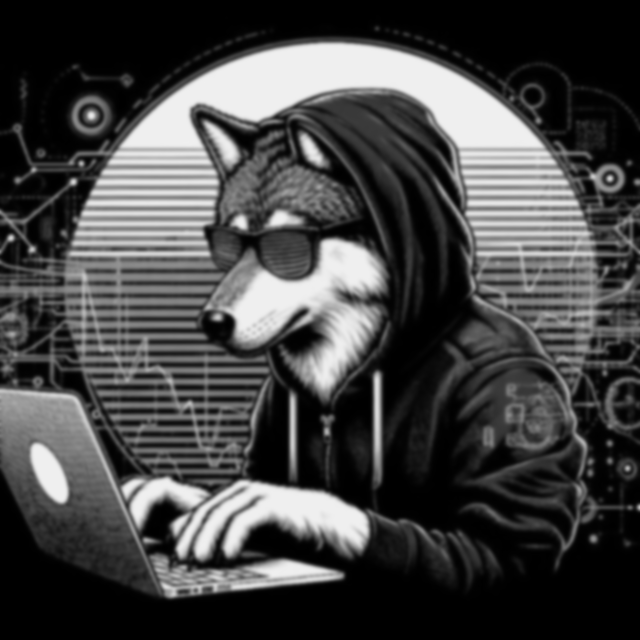
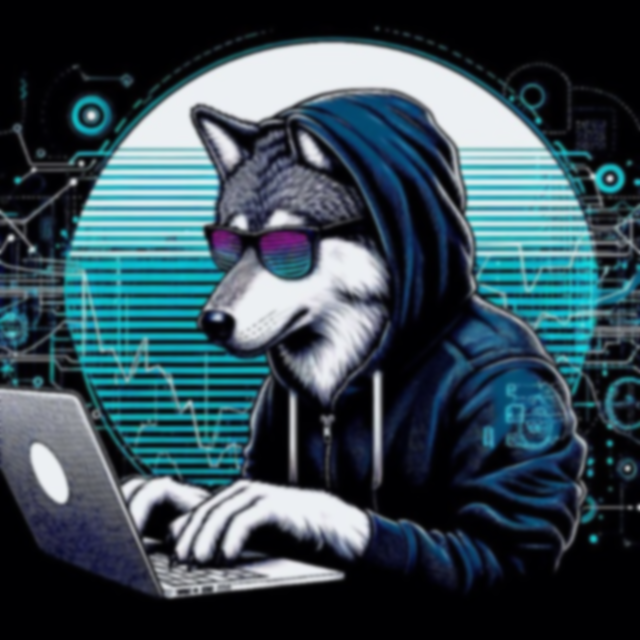
add color image support and remove image_io dependency

diff --git a/Image-debluring/main.py b/Image-debluring/main.py
@@ -1,17 +1,22 @@
+# main.py
 import numpy as np
 import cv2
-from utils.image_io import load_grayscale, show, save_image
 from blur.gaussian import gaussian_kernel
 from deblur.deconvolution import deblur
 from metrices.sharpness import quality
 
 # data path
-input_path = "data/blurred.png"
+input_path = "data/blurred1.png"
 output_path = "data/deblurred_result.png"
 
-# load image in grayscale and calculate the quality
-image = load_grayscale(input_path)
-initial_quality = quality(image)
+# Modified: Load image in color and calculate the quality
+image = cv2.imread(input_path)
+if image is None:
+    raise ValueError(f"Image not found at {input_path}")
+image = image.astype(float)
+
+# Modified: Calculate quality on grayscale version for initial quality
+initial_quality = quality(cv2.cvtColor(np.clip(image, 0, 255).astype(np.uint8), cv2.COLOR_BGR2GRAY))
 
 # initial var
 best_sigma = None
@@ -28,20 +33,45 @@ for sigma in sigmas:
     # Generate Gaussian Kernel (Point Spread Function)
     kernel = gaussian_kernel(sigma)
     
-    # Model: Ax = b (A: Blur Operator, x: Latent Image, b: Observed Blur)
-    # Solving for x: x = A^-1 * b 
-    # In Frequency Domain: x_fft = b_fft / (A_fft + eps)
-    # eps suppresses noise amplification (Regularization).
-    restored = deblur(image, kernel, eps=0.001) 
+    # Modified: Process each channel separately for color image
+    if len(image.shape) == 3:  # Color image (H, W, C)
+        restored_channels = []
+        for c in range(image.shape[2]):
+            channel = image[:, :, c]
+            # Model: Ax = b (A: Blur Operator, x: Latent Image, b: Observed Blur)
+            # Solving for x: x = A^-1 * b 
+            # In Frequency Domain: x_fft = b_fft / (A_fft + eps)
+            # eps suppresses noise amplification (Regularization).
+            restored_channel = deblur(channel, kernel, eps=0.001)
+            restored_channels.append(restored_channel)
+        restored = np.stack(restored_channels, axis=2)
+    else:  # Grayscale image
+        # Model: Ax = b (A: Blur Operator, x: Latent Image, b: Observed Blur)
+        # Solving for x: x = A^-1 * b 
+        # In Frequency Domain: x_fft = b_fft / (A_fft + eps)
+        # eps suppresses noise amplification (Regularization).
+        restored = deblur(image, kernel, eps=0.001)
     
     # Pixel Intensity Constraints: Map restored values back to [0, 255].
     temp_img = np.clip(restored, 0, 255).astype(np.uint8)
     
-    # Edge-Preserving Denoising: Remove "Ringing Artifacts" without blurring edges.
-    temp_img = cv2.medianBlur(temp_img, 3)
+    # Modified: Apply median blur to each channel separately for color
+    if len(temp_img.shape) == 3:
+        # Edge-Preserving Denoising: Remove "Ringing Artifacts" without blurring edges.
+        temp_img_channels = []
+        for c in range(temp_img.shape[2]):
+            temp_img_channels.append(cv2.medianBlur(temp_img[:, :, c], 3))
+        temp_img = np.stack(temp_img_channels, axis=2)
+    else:
+        # Edge-Preserving Denoising: Remove "Ringing Artifacts" without blurring edges.
+        temp_img = cv2.medianBlur(temp_img, 3)
     
-    # calculate quality
-    current_score = quality(temp_img)
+    # Modified: Calculate quality on grayscale version
+    if len(temp_img.shape) == 3:
+        gray_temp = cv2.cvtColor(temp_img, cv2.COLOR_BGR2GRAY)
+    else:
+        gray_temp = temp_img
+    current_score = quality(gray_temp)
     print(f"Sigma: {sigma:.1f} | Score: {current_score:.4f}")
 
     if current_score > best_score:
@@ -51,11 +81,32 @@ for sigma in sigmas:
 
 # final process
 final_image = np.clip(best_image, 0, 255).astype(np.uint8)
-final_image = cv2.normalize(final_image, None, 0, 255, cv2.NORM_MINMAX)
-final_image = cv2.medianBlur(final_image, 3)
+
+# Modified: Normalize each channel separately for color image
+if len(final_image.shape) == 3:
+    final_image_channels = []
+    for c in range(final_image.shape[2]):
+        final_image_channels.append(cv2.normalize(final_image[:, :, c], None, 0, 255, cv2.NORM_MINMAX))
+    final_image = np.stack(final_image_channels, axis=2)
+else:
+    final_image = cv2.normalize(final_image, None, 0, 255, cv2.NORM_MINMAX)
+
+# Modified: Apply median blur to each channel separately for color image
+if len(final_image.shape) == 3:
+    final_image_channels = []
+    for c in range(final_image.shape[2]):
+        final_image_channels.append(cv2.medianBlur(final_image[:, :, c], 3))
+    final_image = np.stack(final_image_channels, axis=2)
+else:
+    final_image = cv2.medianBlur(final_image, 3)
 
 ######
-final_quality = quality(final_image)
+# Modified: Calculate final quality on grayscale version
+if len(final_image.shape) == 3:
+    final_gray = cv2.cvtColor(final_image, cv2.COLOR_BGR2GRAY)
+else:
+    final_gray = final_image
+final_quality = quality(final_gray)
 improvement = ((final_quality - initial_quality) / initial_quality) * 100
 
 print("\n" + "="*40)
@@ -67,5 +118,7 @@ print(f"Total Improvement:     {improvement:.2f}%")
 print(f"Optimal Sigma Found:   {best_sigma:.1f}")
 print("="*40)
 
-save_image(output_path, final_image)
-show(f"Result (Sigma {best_sigma:.1f})", final_image)
+# Modified: Save image directly without using image_io
+cv2.imwrite(output_path, final_image)
+
+# Modified: Removed show() as requested - no image display
